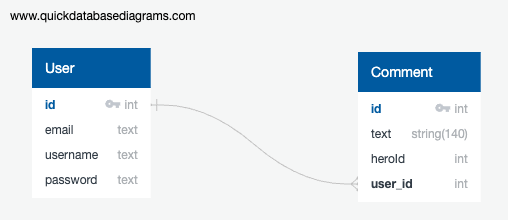
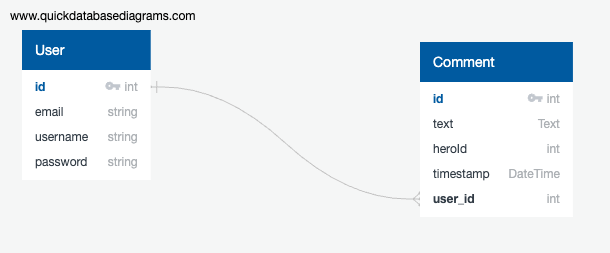
polished the site

diff --git a/templates/heroes/hero-details.html b/templates/heroes/hero-details.html
@@ -12,6 +12,7 @@
         <li>
           <p>
             <a href="/heroes/{{id}}">@{{comment.user.username}}</a>: {{comment.text}}
+            <span class="datetime">|{{ comment.timestamp.strftime('%d %B %Y') }}|</span>
             {% if comment.user.username == g.user.username %}
               <a href="/heroes/{{id}}/comment/delete/{{comment.id}}" class="deleteBtn"> Delete </a>
             {% endif %}

diff --git a/static/all-heroes.js b/static/all-heroes.js
@@ -69,6 +69,9 @@ function createDivForHero(id, hero, image) {
     heroImage.className = "hero-image";
     heroImage.id = id;
     heroImage.src = image;
+    heroImage.addEventListener("error", function(){
+        this.src = "/static/logo.png";
+    });
 
     const heroName = document.createElement("p");
     heroName.className = "hero-name";

diff --git a/static/hero-details.js b/static/hero-details.js
@@ -25,6 +25,9 @@ async function makeProfile(){
     let img = document.createElement("img");
     img.src = heroInfo.image.url;
     img.id = "profile-avatar";
+    img.addEventListener("error", function(){
+        this.src = "/static/logo.png";
+    });
 
     let name = document.createElement("h1");
     name.innerText = heroInfo.name;

diff --git a/static/stylesheets/style.css b/static/stylesheets/style.css
@@ -230,6 +230,7 @@ nav form.navbar-form {
     border-radius: 100%;
     object-fit: cover;
     border: 2px solid #6da5c0;
+    background-color: white;
 }
 
 .profile{
@@ -323,6 +324,11 @@ nav form.navbar-form {
 
 .comments-container h3{
     text-decoration: underline;
+}
+
+.datetime {
+  font-size: small;
+  color:#4f7b91;
 }
 
   

diff --git a/templates/base.html b/templates/base.html
@@ -41,6 +41,7 @@
             <li><a href="/signup">Sign up</a></li>
             <li><a href="/login">Log in</a></li>
           {% else %}
+            <li><a href="/heroes">{{ g.user.username }}</a></li>
             <li><a href="/logout">Log out</a></li>
           {% endif %}
         </ul>

diff --git a/models.py b/models.py
@@ -17,19 +17,19 @@ class User(db.Model):
     )
 
     email = db.Column(
-        db.Text,
+        db.String,
         nullable=False,
         unique=True,
     )
 
     username = db.Column(
-        db.Text,
+        db.String,
         nullable=False,
         unique=True,
     )
 
     password = db.Column(
-        db.Text,
+        db.String,
         nullable=False,
     )
 
@@ -69,13 +69,19 @@ class Comment(db.Model):
     )
 
     text = db.Column(
-        db.String(140),
+        db.Text,
         nullable=False,
     )
 
     heroId = db.Column(
         db.Integer,
         nullable=False
+    )
+
+    timestamp = db.Column(
+        db.DateTime,
+        nullable=False,
+        default=datetime.utcnow(),
     )
 
     user_id = db.Column(

diff --git a/app.py b/app.py
@@ -54,6 +54,7 @@ def hero_detail(hero_id):
     comments = (Comment
                 .query
                 .filter(Comment.heroId == hero_id)
+                .order_by(Comment.timestamp.desc())
                 .limit(100)
                 .all())
     return render_template('/heroes/hero-details.html', id=hero_id, comments=comments)
